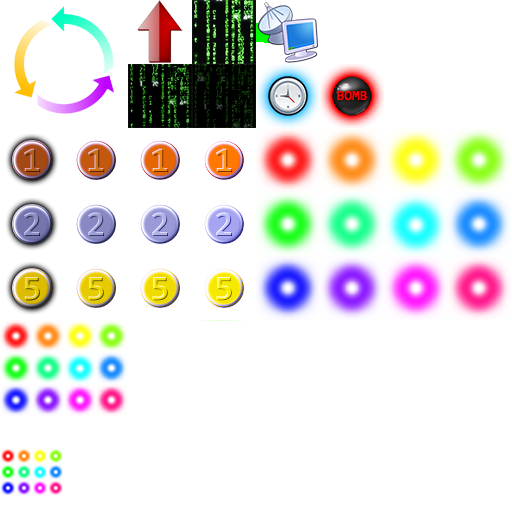
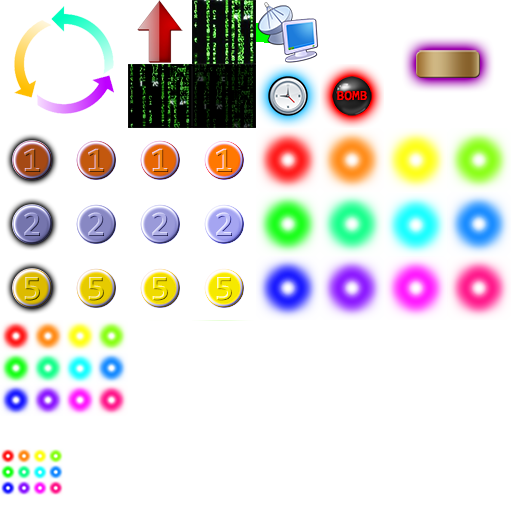
changed anim frames values. added lr connector

Changed region(s): [[0.7812, 0.0625, 0.9688, 0.1875]]

diff --git a/h/GameTable.h b/h/GameTable.h
@@ -23,8 +23,8 @@
 #define ANIM_NONE      0
 #define ANIM_FALL      101
 #define ANIM_DESTROY   102
-#define FRAMES_DESTROY 8
-#define FRAMES_FALL    30
+#define FRAMES_DESTROY 4
+#define FRAMES_FALL    26
 #define FRAMES_GLOW    10
 
 #define MAX_WORM       10
